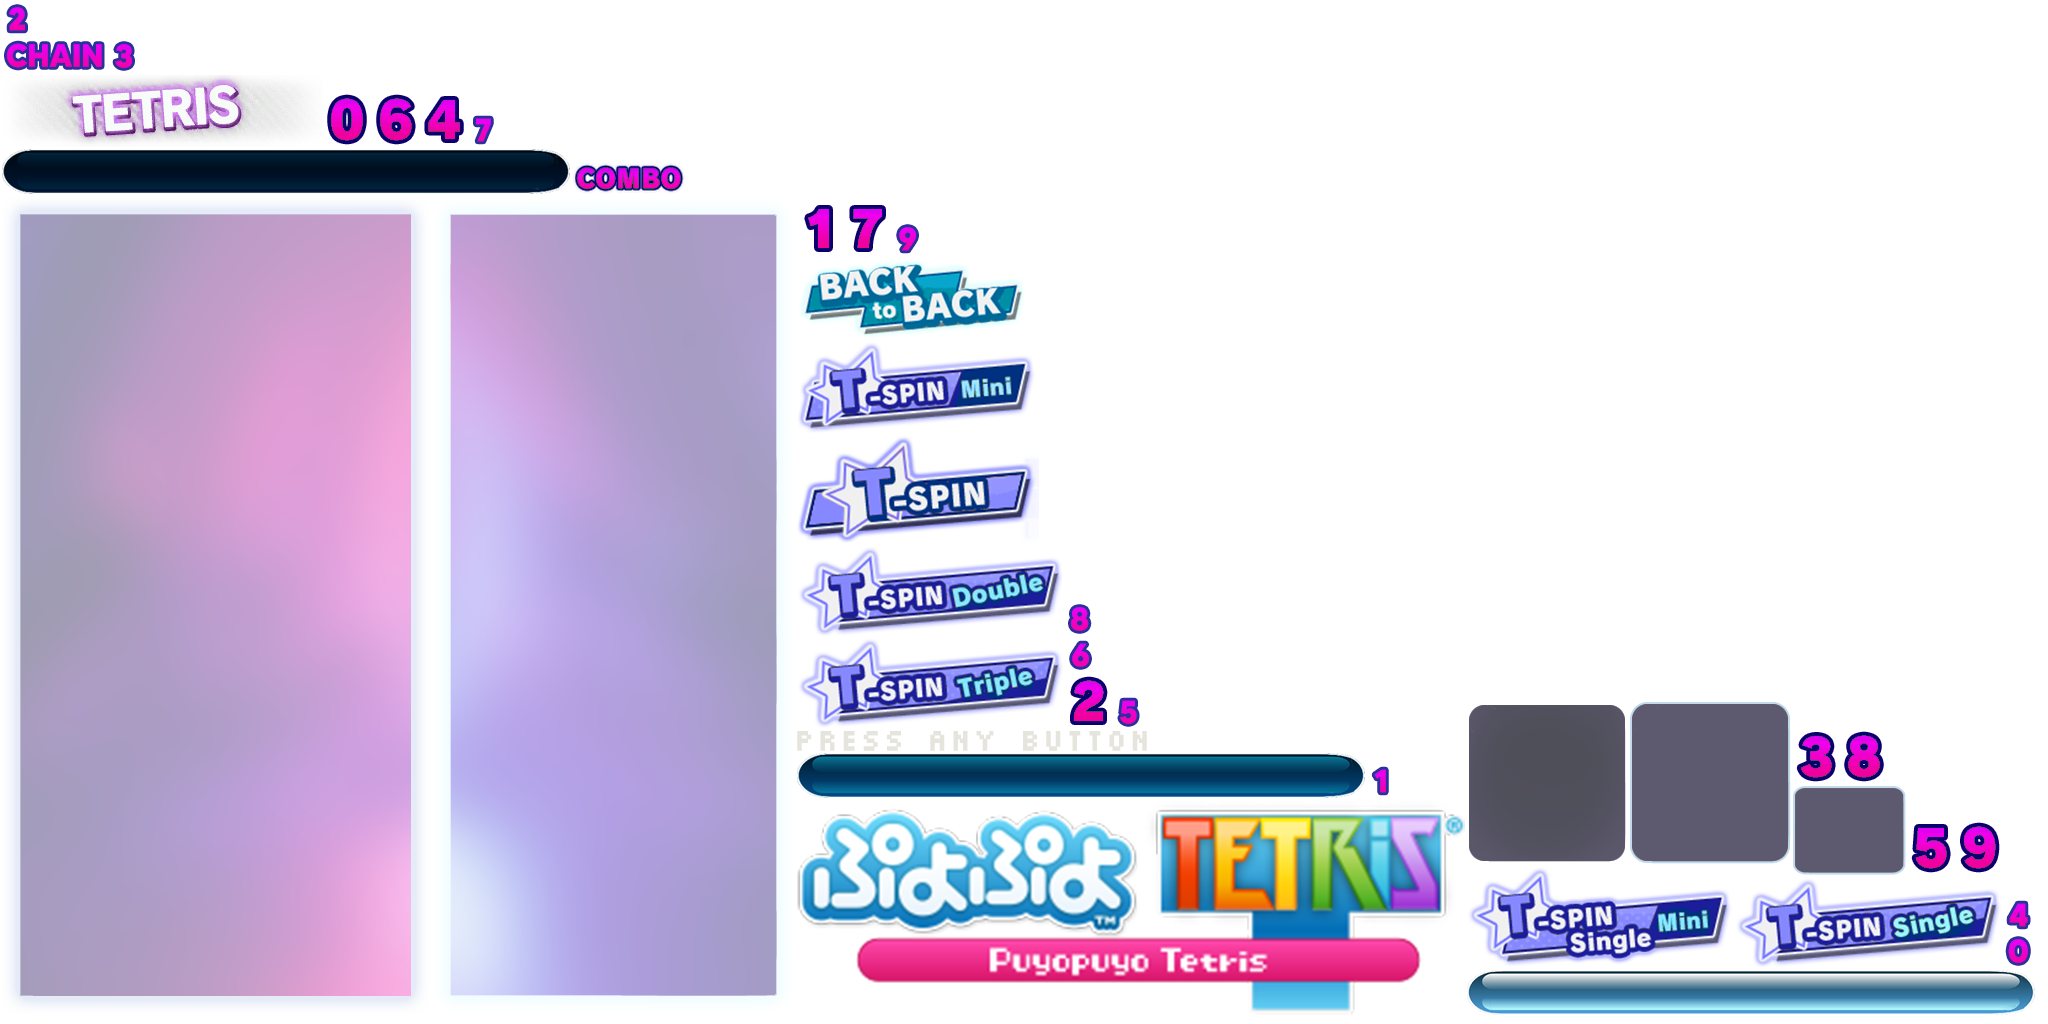
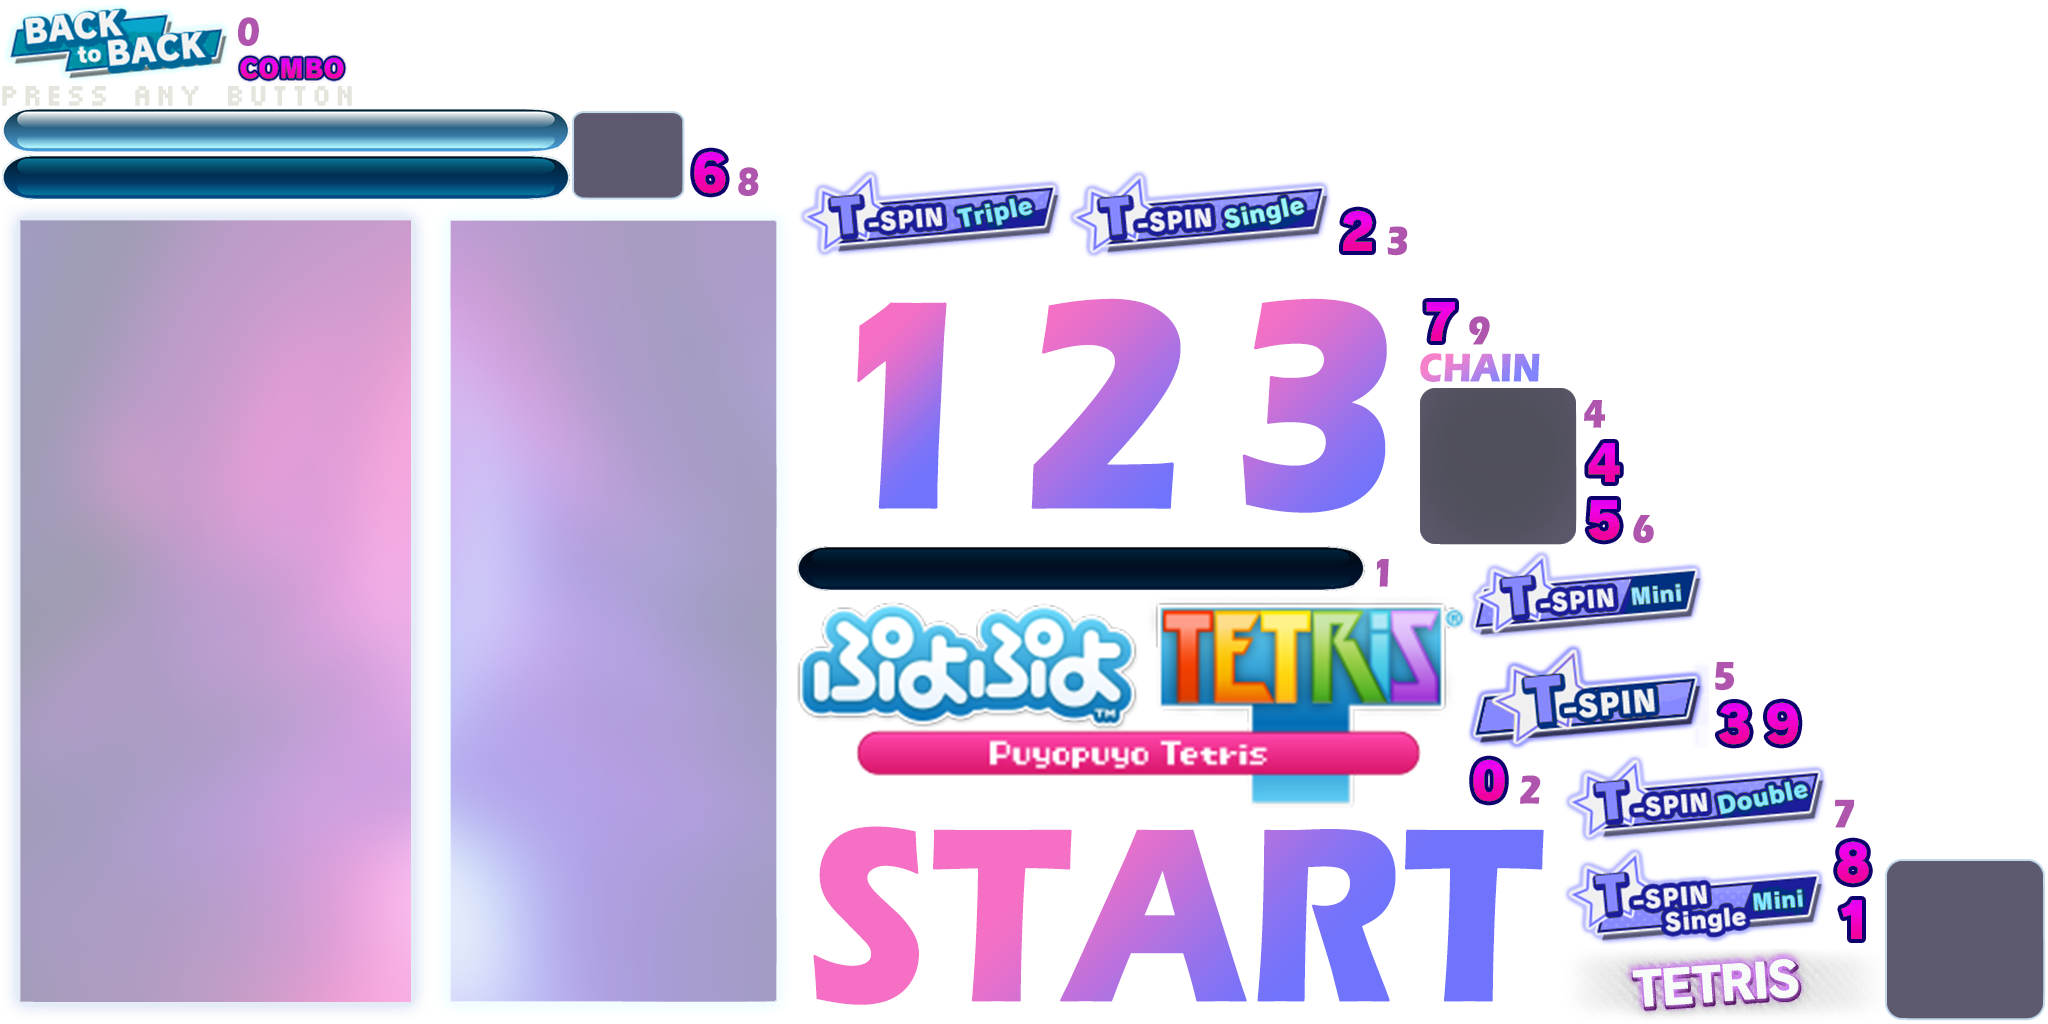
added sprites

Changed region(s): [[0.0, 0.0, 1.0, 1.0], [0.0, 0.9688, 0.1875, 1.0], [0.2188, 0.9688, 0.375, 1.0]]

diff --git a/core/src/com/game/GameScreen.kt b/core/src/com/game/GameScreen.kt
@@ -23,8 +23,8 @@ class GameScreen(val game: PuyoPuyoTetris) : Screen {
     private var gameOverTime = Time(300)
 
     private var screenshot: Texture? = null
-    var winTexture = Texture("winner.png")
-    var loseTexture = Texture("loser.png")
+    private var winTexture = Texture("winner.png")
+    private var loseTexture = Texture("loser.png")
 
     private var tetrisGame: TetrisGame = TetrisGame()
     private val puyoController = Controller()
@@ -62,8 +62,8 @@ class GameScreen(val game: PuyoPuyoTetris) : Screen {
         if (screenshot == null) {
             /// Background
             game.batch.begin()
-            game.batch.draw(game.bgGif.update(delta), 0f, 0f, SCREEN_WIDTH, SCREEN_HEIGHT)
-            //game.batch.draw(background, 0f, 0f, SCREEN_WIDTH, SCREEN_HEIGHT)
+            //game.batch.draw(game.bgGif.update(delta), 0f, 0f, SCREEN_WIDTH, SCREEN_HEIGHT)
+            game.batch.draw(background, 0f, 0f, SCREEN_WIDTH, SCREEN_HEIGHT)
             drawPuyoBgTexture()
             drawTetrisGridTexture()
             game.batch.end()
@@ -123,12 +123,12 @@ class GameScreen(val game: PuyoPuyoTetris) : Screen {
     }
 
     private fun drawCountDown(){
-        count = -1 // delete
+        //count = -1
         if(count >= 0) {
             if(count == 0){
-                game.batch.draw(SpriteArea.gameSprites["tcombo"], SCREEN_WIDTH/2-912/2, SCREEN_HEIGHT/2, 912f, 256f)
+                game.batch.draw(SpriteArea.gameSprites["cd-start"], SCREEN_WIDTH/2-458/2, SCREEN_HEIGHT/2, 458f, 127f)
             } else {
-                game.batch.draw(SpriteArea.gameSprites["tcombo$count"], SCREEN_WIDTH / 2 - 230 / 2, SCREEN_HEIGHT / 2, 230f, 275f)
+                game.batch.draw(SpriteArea.gameSprites["cd$count"], SCREEN_WIDTH / 2 - 123 / 2, SCREEN_HEIGHT / 2, 123f, 168f)
             }
             if (countdown.hasPassed()) {
                 count--
@@ -681,11 +681,11 @@ class GameScreen(val game: PuyoPuyoTetris) : Screen {
                     frames = 0
                 }
                 game.batch.draw(SpriteArea.gameSprites["pchain"],
-                        PC.GRID_START_X + numX * PC.CELL_SIZE - 57, PC.GRID_START_Y - numY * PC.CELL_SIZE, 114f, 32f)
+                        PC.GRID_START_X + numX * PC.CELL_SIZE - 57, PC.GRID_START_Y - numY * PC.CELL_SIZE, 99f, 26f)
                 val chainString = chainCount.toString()
                 for(i in chainString.indices){
                     game.batch.draw(SpriteArea.gameSprites["p${chainString[i]}"],
-                    PC.GRID_START_X + numX * PC.CELL_SIZE + 57 + i*24f, PC.GRID_START_Y - numY * PC.CELL_SIZE, 26f, 30f)
+                    PC.GRID_START_X + numX * PC.CELL_SIZE + 57 + i*24f, PC.GRID_START_Y - numY * PC.CELL_SIZE, 25f, 29f)
                 }
                 frames++
             }

diff --git a/core/src/com/game/MenuScreen.kt b/core/src/com/game/MenuScreen.kt
@@ -37,18 +37,21 @@ class MenuScreen(val game: PuyoPuyoTetris) : Screen {
 
         game.batch.begin()
         if(game.manager.update()){
+            /*
             if(!hasLoaded){
+                game.batch.draw(TextureRegion(SpriteArea.bgSprites["loading"], 0, 0, 568, 45), (SCREEN_WIDTH-568f)/2, SCREEN_HEIGHT*0.05f)
                 game.menuGif.load()
                 game.bgGif.load()
                 hasLoaded = true
             }
-            game.batch.draw(game.menuGif.update(delta), 0f, 0f)
+            game.batch.draw(game.menuGif.update(delta), 0f, 0f)*/
+            game.batch.draw(bg, 0f, 0f)
             if(frame in 0..70){
                 game.batch.draw(SpriteArea.bgSprites["press-button"], (SCREEN_WIDTH-350f)/2, SCREEN_HEIGHT*0.05f, 350f, 20f)
             }
             frame = if(frame > 100) 0 else frame+1
 
-            if (Gdx.input.isKeyPressed(Input.Keys.ANY_KEY)) {
+            if (Gdx.input.isKeyPressed(Input.Keys.ANY_KEY) || Gdx.input.isButtonPressed(Input.Keys.ANY_KEY)) {
                 game.screen = GameScreen(game)
             }
         } else {

diff --git a/core/src/com/game/SpriteArea.kt b/core/src/com/game/SpriteArea.kt
@@ -60,7 +60,9 @@ class SpriteArea {
                 "b2b" to guiAtlas.findRegion("backtoback"), "tspin" to guiAtlas.findRegion("tspin"),
                 "tspinmini" to guiAtlas.findRegion("tspinmini"), "tspinsingle" to guiAtlas.findRegion("tspinsingle"),
                 "tspindouble" to guiAtlas.findRegion("tspindouble"), "tspintriple" to guiAtlas.findRegion("tspintriple"),
-                "tspinsinglemini" to guiAtlas.findRegion("tspinsinglemini"))
+                "tspinsinglemini" to guiAtlas.findRegion("tspinsinglemini"),
+                "cd1" to guiAtlas.findRegion("cd1"), "cd2" to guiAtlas.findRegion("cd2"), "cd3" to guiAtlas.findRegion("cd3"),
+                "cd-start" to guiAtlas.findRegion("cdstart"))
 
 
         val puyoSprites = createPuyoSprites()

diff --git a/core/src/com/game/PuyoPuyoTetris.kt b/core/src/com/game/PuyoPuyoTetris.kt
@@ -18,9 +18,8 @@ class PuyoPuyoTetris : Game() {
     override fun create() {
         batch = SpriteBatch()
         manager = AssetManager()
-        menuGif = GifAnimation(this, "menu", 30, 0.075f)
-        bgGif = GifAnimation(this, "bg", 121, 0.1f)
-        //screen = GameScreen(this)
+        //menuGif = GifAnimation(this, "menu", 100, 0.075f)
+        //bgGif = GifAnimation(this, "bg", 121, 0.1f)
         screen = MenuScreen(this)
     }
 
